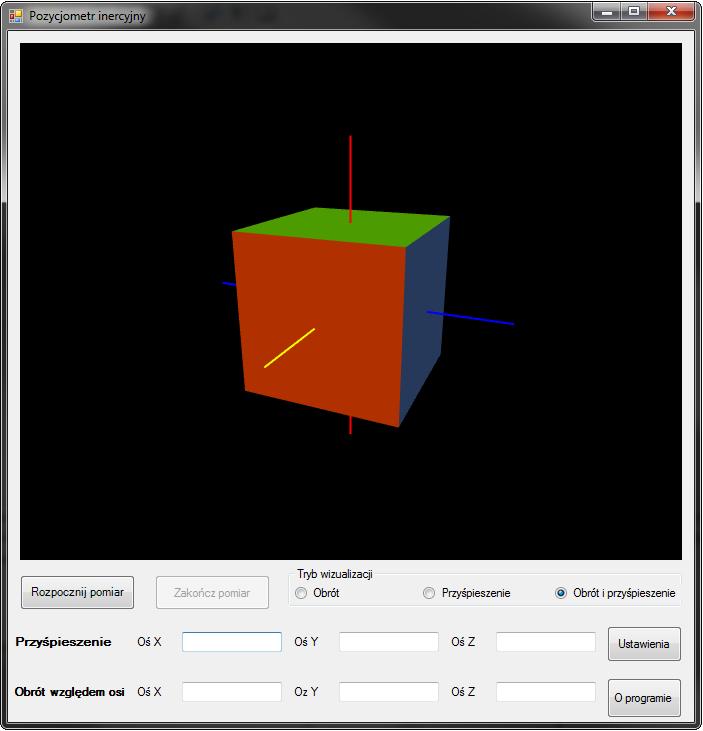
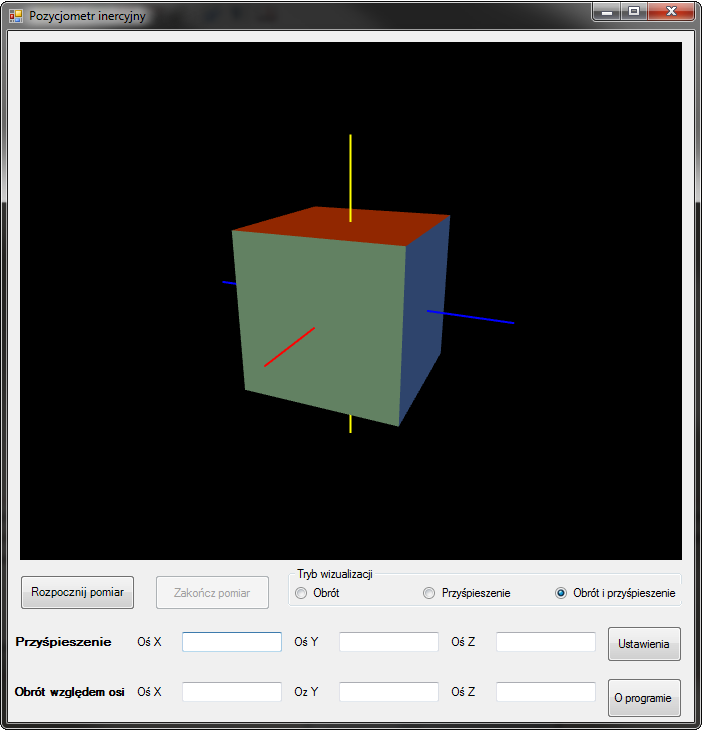
Przesunięcie źródła światła i usunięcie warningów

Changed region(s): [[0.3286, 0.1806, 0.7169, 0.6019]]

diff --git a/Kod/UserInterface/DataVisualisation/MainWindow.xaml b/Kod/UserInterface/DataVisualisation/MainWindow.xaml
@@ -15,7 +15,7 @@
 
             <ModelVisual3D>
                 <ModelVisual3D.Content>
-                    <DirectionalLight Color="White" Direction="-5,-8,-9" />
+                    <DirectionalLight Color="White" Direction="-4,6,-5" />
                 </ModelVisual3D.Content>
             </ModelVisual3D>
         </Viewport3D>

diff --git a/Kod/UserInterface/UserInterface/ApplicationWindow.cs b/Kod/UserInterface/UserInterface/ApplicationWindow.cs
@@ -38,6 +38,7 @@ namespace UserInterface
         {
             serialPortManager = new COMPortManager();
             serialPortManager.ReceivedData += new EventHandler<ReceivedDataEventArgs>(NewSerialDataReceived);
+            graphicWindowMode = DataVisualisation.VisualisationMode.FullPositionMode;
         }
 
         private void NewSerialDataReceived(object sender, ReceivedDataEventArgs args)
@@ -144,6 +145,7 @@ namespace UserInterface
                 AngleY = angY;
                 AngleZ = angZ;
             }
+            visualisation.WindowMode = graphicWindowMode;
             visualisation.ApplyTransformation();
         }
 

diff --git a/Kod/UserInterface/UserInterface/COMPortManager.cs b/Kod/UserInterface/UserInterface/COMPortManager.cs
@@ -68,9 +68,9 @@ namespace UserInterface
                 if (ReceivedData != null)
                     ReceivedData(this, new ReceivedDataEventArgs(all));
             }
-            catch(Exception exc)
+            catch(Exception)
             {
-
+                return;
             }
         }
 
